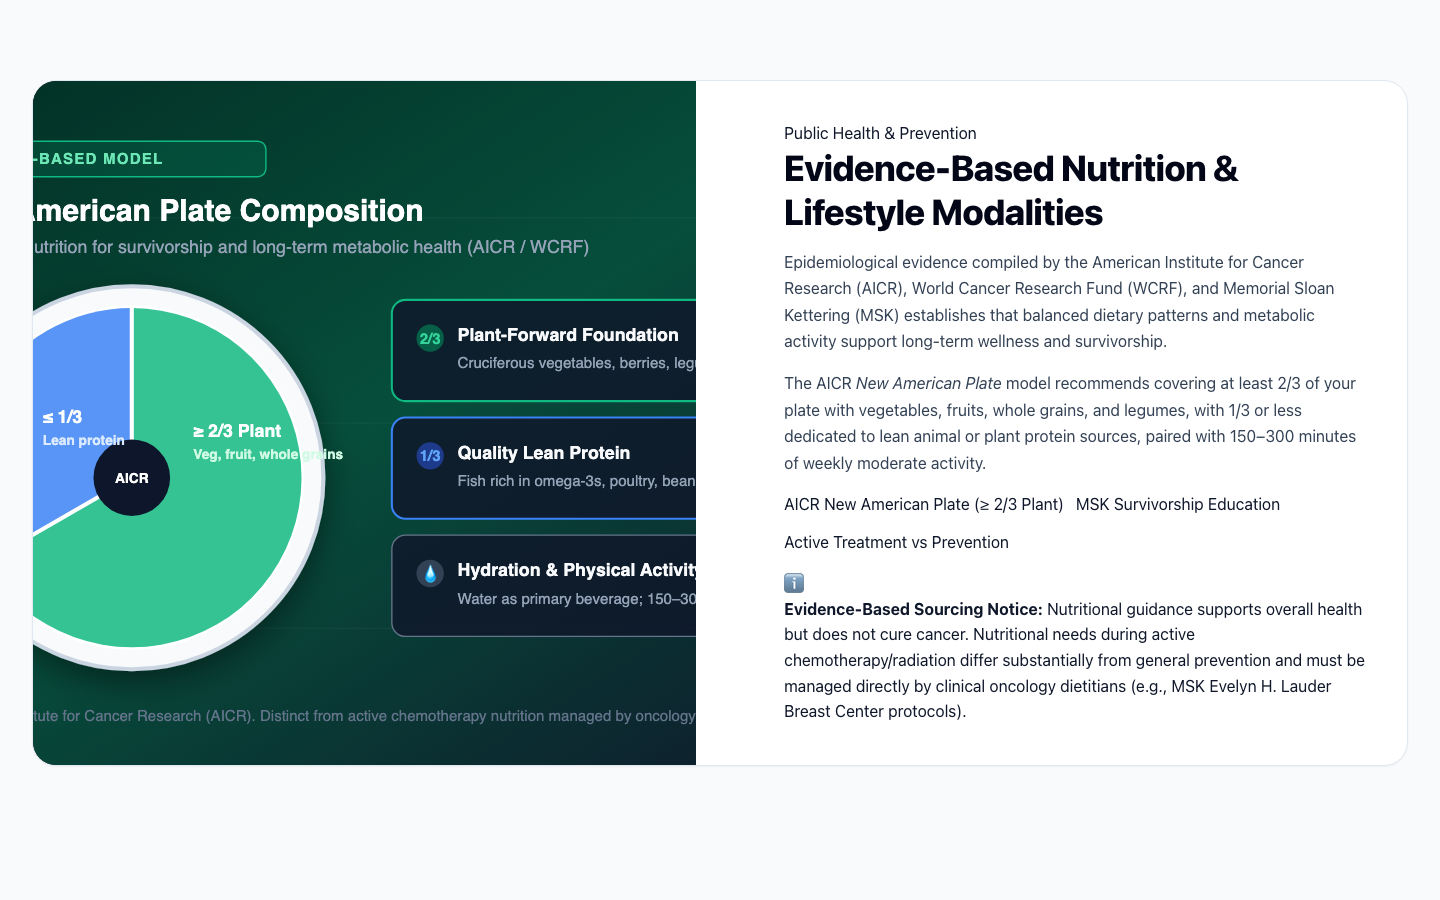
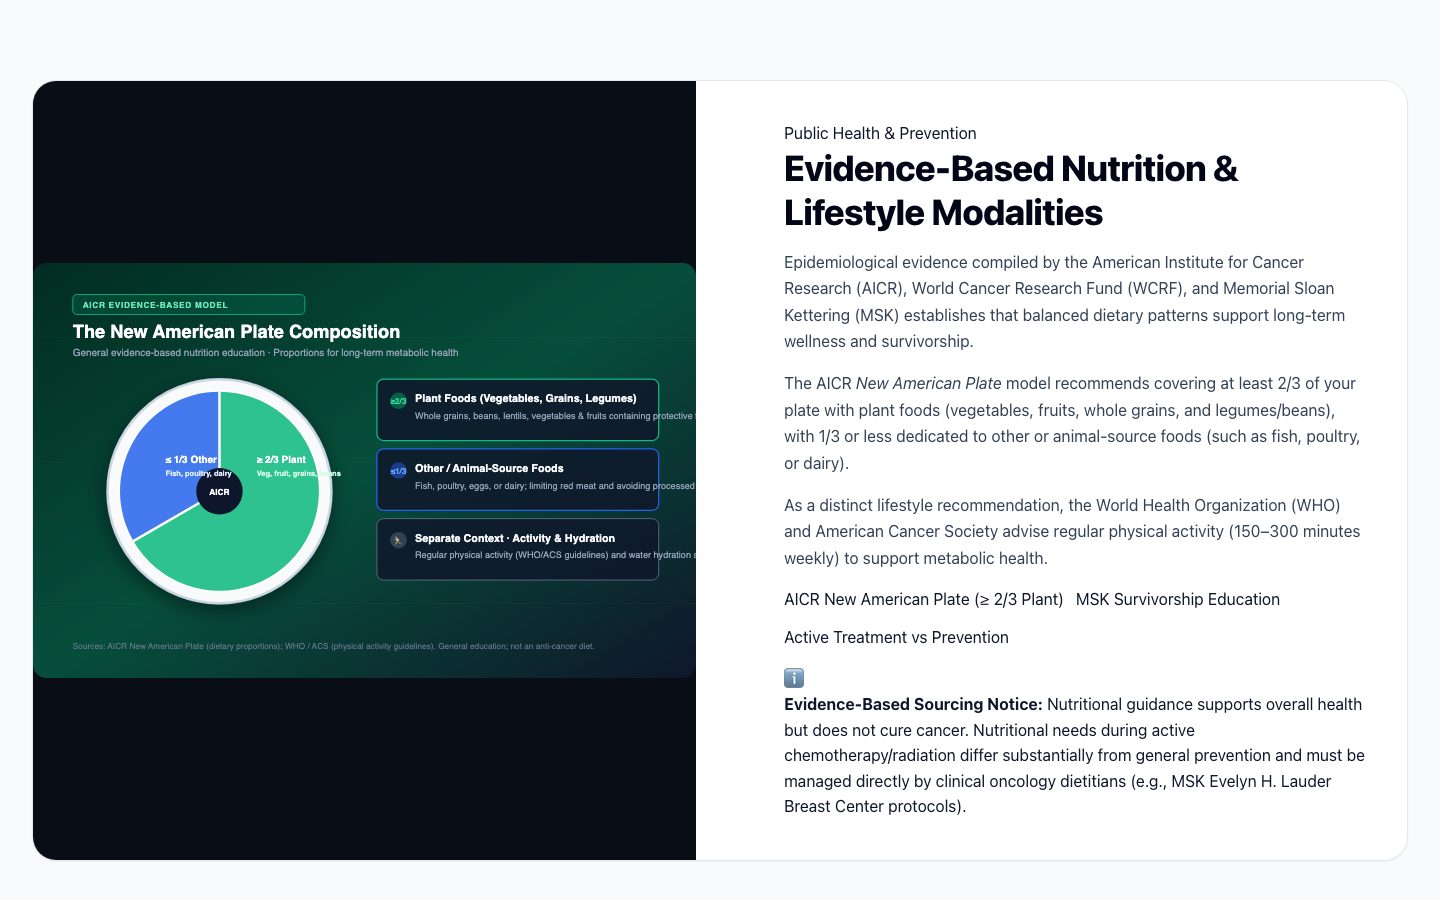
fix: correct sourced nutrition visual semantics

diff --git a/frontend/content/source-registry.js b/frontend/content/source-registry.js
@@ -17,12 +17,14 @@ export const EDUCATIONAL_RESOURCES = [
     videoId: "50CdcLJsIEI",
     embedUrl: "https://www.youtube-nocookie.com/embed/50CdcLJsIEI",
     duration: "05:40",
+    publishedOrUpdatedDate: "2015-10-20",
     reviewedDate: "2026-03-01",
     licenseOrEmbedStatus: "Official YouTube Embed Permitted",
     summary: "Clinical overview explaining evidence-based screening recommendations, average-risk timelines, mammography early detection benefits, and shared decision-making.",
     relatedArticle: "Screening Protocols & Dense Tissue Considerations",
     imageAsset: "assets/img/video_poster_screening.svg",
-    altText: "Video poster for American Cancer Society Screening Guideline Overview"
+    altText: "Video poster for American Cancer Society Screening Guideline Overview",
+    geographicApplicability: "United States / International Reference"
   },
   {
     id: "acs-science-behind-screening",
@@ -34,12 +36,14 @@ export const EDUCATIONAL_RESOURCES = [
     videoId: "oZYRmApgoUI",
     embedUrl: "https://www.youtube-nocookie.com/embed/oZYRmApgoUI",
     duration: "02:21",
+    publishedOrUpdatedDate: "2015-10-20",
     reviewedDate: "2026-03-01",
     licenseOrEmbedStatus: "Official YouTube Embed Permitted",
     summary: "Discussion of scientific evidence, mortality reduction modeling, and risk-benefit analyses guiding regular screening intervals.",
     relatedArticle: "Screening Protocols & Dense Tissue Considerations",
     imageAsset: "assets/img/mammography_tp_original.png",
-    altText: "Mammography radiographic scan illustrating screening early detection"
+    altText: "Mammography radiographic scan illustrating screening early detection",
+    geographicApplicability: "United States / International Reference"
   },
   {
     id: "msk-nutrition-basics-survivors",
@@ -51,12 +55,14 @@ export const EDUCATIONAL_RESOURCES = [
     videoId: null,
     embedUrl: null,
     duration: "16:00",
+    publishedOrUpdatedDate: "2023-05-12",
     reviewedDate: "2026-02-15",
     licenseOrEmbedStatus: "External Institutional Resource Card",
     summary: "Comprehensive nutritional guidance presented by clinical nutrition specialists at the Evelyn H. Lauder Breast Center focusing on whole-food dietary patterns, metabolic wellness, and evidence-based post-treatment health.",
     relatedArticle: "Evidence-Based Lifestyle & Metabolic Factors",
     imageAsset: "assets/img/nutrition_lifestyle.svg",
-    altText: "Infographic illustrating balanced plant-forward plate and active lifestyle"
+    altText: "Infographic illustrating balanced plant-forward plate and active lifestyle",
+    geographicApplicability: "Clinical survivorship guidance"
   },
   {
     id: "msk-nutrition-qa-survivors",
@@ -68,12 +74,14 @@ export const EDUCATIONAL_RESOURCES = [
     videoId: null,
     embedUrl: null,
     duration: "05:00",
+    publishedOrUpdatedDate: "2023-05-12",
     reviewedDate: "2026-02-15",
     licenseOrEmbedStatus: "External Institutional Resource Card",
     summary: "Targeted clinical answers addressing dietary supplements, soy intake, organic produce questions, and protein adequacy during and after cancer therapy.",
     relatedArticle: "Evidence-Based Lifestyle & Metabolic Factors",
     imageAsset: "assets/img/nutrition_lifestyle.svg",
-    altText: "Nutrition and clinical inquiry illustration"
+    altText: "Nutrition and clinical inquiry illustration",
+    geographicApplicability: "Clinical survivorship guidance"
   },
   {
     id: "aicr-new-american-plate",
@@ -85,12 +93,14 @@ export const EDUCATIONAL_RESOURCES = [
     videoId: null,
     embedUrl: null,
     duration: null,
+    publishedOrUpdatedDate: "2021-03-15",
     reviewedDate: "2026-01-20",
     licenseOrEmbedStatus: "Public Health Educational Guidance",
-    summary: "Proportional plate model recommending 2/3 or more of meal composition from plant sources (vegetables, fruits, whole grains, beans) and 1/3 or less from animal protein sources.",
+    summary: "Proportional meal model recommending covering 2/3 or more of the plate with plant foods (vegetables, fruits, whole grains, and legumes/beans) and 1/3 or less with other or animal-source foods (fish, poultry, dairy).",
     relatedArticle: "Evidence-Based Lifestyle & Metabolic Factors",
     imageAsset: "assets/img/nutrition_lifestyle.svg",
-    altText: "New American Plate compositional proportion schematic"
+    altText: "New American Plate compositional proportion schematic",
+    geographicApplicability: "Global public health / dietary pattern guidance"
   },
   {
     id: "nci-breast-anatomy-biology",
@@ -102,12 +112,14 @@ export const EDUCATIONAL_RESOURCES = [
     videoId: null,
     embedUrl: null,
     duration: null,
+    publishedOrUpdatedDate: "2022-06-01",
     reviewedDate: "2026-01-15",
     licenseOrEmbedStatus: "Public Domain / US Government Work",
     summary: "Structural reference detailing terminal duct lobular units (TDLUs), milk ducts, stromal adipose, and regional axillary lymphatic drainage.",
     relatedArticle: "Understanding Breast Tissue & Cellular Architecture",
     imageAsset: "assets/img/anatomy_diagram.svg",
-    altText: "Anatomical schematic diagram of female breast lobules, ducts, and lymph nodes"
+    altText: "Anatomical schematic diagram of female breast lobules, ducts, and lymph nodes",
+    geographicApplicability: "International anatomical standard"
   }
 ];
 
@@ -118,6 +130,7 @@ export const FACTUAL_CLAIMS = [
     statement: "Regular screening mammography is associated with substantial reduction in breast cancer mortality through detection of non-palpable asymptomatic lesions.",
     sourceOrganization: "American Cancer Society / National Cancer Institute",
     sourceTitle: "Breast Cancer Screening Guidelines and Systematic Review",
+    sourceUrl: "https://jamanetwork.com/journals/jama/fullarticle/2463261",
     sourceReference: "ACS Breast Cancer Screening Guideline (Oeffinger et al., JAMA 2015;314(15):1599-1614)",
     publishedOrUpdatedDate: "2015-10-20",
     reviewedDate: "2026-03-01",
@@ -129,6 +142,7 @@ export const FACTUAL_CLAIMS = [
     statement: "High breast tissue density (BI-RADS category C and D) reduces the sensitivity of 2D projection mammography due to parenchymal tissue masking effects.",
     sourceOrganization: "American College of Radiology (ACR)",
     sourceTitle: "ACR BI-RADS Atlas: Breast Imaging Reporting and Data System",
+    sourceUrl: "https://www.acr.org/Clinical-Resources/Reporting-and-Data-Systems/Bi-Rads",
     sourceReference: "D'Orsi CJ, et al. ACR BI-RADS Atlas 5th Edition (2013/rev 2023)",
     publishedOrUpdatedDate: "2023-08-10",
     reviewedDate: "2026-03-01",
@@ -136,23 +150,25 @@ export const FACTUAL_CLAIMS = [
   },
   {
     claimId: "CLAIM-LIFESTYLE-003",
-    topic: "Physical Activity & Cancer Risk",
-    statement: "Engaging in 150 to 300 minutes of moderate-intensity or 75 to 150 minutes of vigorous-intensity physical activity weekly is associated with lower post-menopausal breast cancer risk.",
+    topic: "Physical Activity Guidelines & Long-Term Health",
+    statement: "Engaging in regular physical activity (150 to 300 minutes of moderate-intensity or 75 to 150 minutes of vigorous-intensity aerobic physical activity weekly) is associated with metabolic wellness and lower post-menopausal breast cancer risk.",
     sourceOrganization: "World Health Organization (WHO) / American Cancer Society",
     sourceTitle: "WHO Guidelines on Physical Activity and Sedentary Behaviour",
-    sourceReference: "WHO Guidelines (2020) & Rock CL et al. CA Cancer J Clin 2020;70(4):245-271",
+    sourceUrl: "https://www.who.int/publications/i/item/9789240015128",
+    sourceReference: "WHO Guidelines on Physical Activity (2020) & Rock CL et al. American Cancer Society Guideline on Diet and Physical Activity for Cancer Prevention, CA Cancer J Clin 2020;70(4):245-271",
     publishedOrUpdatedDate: "2020-11-25",
     reviewedDate: "2026-02-15",
     geographicApplicability: "Global public health recommendation"
   },
   {
     claimId: "CLAIM-NUTRITION-004",
-    topic: "Plant-Forward Dietary Pattern",
-    statement: "A dietary pattern emphasizing fiber-rich plant foods (vegetables, whole grains, legumes, and fruits) supports general metabolic wellness and survivorship health without curative claims.",
-    sourceOrganization: "American Institute for Cancer Research / WCRF",
-    sourceTitle: "Diet, Nutrition, Physical Activity and Breast Cancer",
-    sourceReference: "Continuous Update Project Expert Report (WCRF/AICR 2018)",
-    publishedOrUpdatedDate: "2018-05-24",
+    topic: "Plant-Forward Dietary Pattern Proportions",
+    statement: "A dietary pattern emphasizing plant foods (vegetables, whole grains, legumes/beans, and fruits) for at least two-thirds of meal volume supports general metabolic wellness and survivorship health without curative or anti-cancer diet claims.",
+    sourceOrganization: "American Institute for Cancer Research / World Cancer Research Fund",
+    sourceTitle: "Diet, Nutrition, Physical Activity and Breast Cancer: A Global Perspective",
+    sourceUrl: "https://www.aicr.org/research/the-continuous-update-project/",
+    sourceReference: "Continuous Update Project Expert Report (WCRF/AICR 2018; updated recommendations 2021)",
+    publishedOrUpdatedDate: "2021-03-15",
     reviewedDate: "2026-02-15",
     geographicApplicability: "Global epidemiological consensus"
   }

diff --git a/frontend/index.html b/frontend/index.html
@@ -568,10 +568,13 @@
               Evidence-Based Nutrition &amp; Lifestyle Modalities
             </h2>
             <p style="color: var(--slate-700); line-height: 1.65; margin-bottom: 1rem;">
-              Epidemiological evidence compiled by the American Institute for Cancer Research (AICR), World Cancer Research Fund (WCRF), and Memorial Sloan Kettering (MSK) establishes that balanced dietary patterns and metabolic activity support long-term wellness and survivorship.
+              Epidemiological evidence compiled by the American Institute for Cancer Research (AICR), World Cancer Research Fund (WCRF), and Memorial Sloan Kettering (MSK) establishes that balanced dietary patterns support long-term wellness and survivorship.
             </p>
             <p style="color: var(--slate-700); line-height: 1.65; margin-bottom: 1rem;">
-              The AICR <em>New American Plate</em> model recommends covering at least 2/3 of your plate with vegetables, fruits, whole grains, and legumes, with 1/3 or less dedicated to lean animal or plant protein sources, paired with 150–300 minutes of weekly moderate activity.
+              The AICR <em>New American Plate</em> model recommends covering at least 2/3 of your plate with plant foods (vegetables, fruits, whole grains, and legumes/beans), with 1/3 or less dedicated to other or animal-source foods (such as fish, poultry, or dairy).
+            </p>
+            <p style="color: var(--slate-700); line-height: 1.65; margin-bottom: 1rem;">
+              As a distinct lifestyle recommendation, the World Health Organization (WHO) and American Cancer Society advise regular physical activity (150–300 minutes weekly) to support metabolic health.
             </p>
             <div style="display: flex; gap: 0.75rem; flex-wrap: wrap; margin-bottom: 1rem;">
               <span class="studio-badge badge-teal">AICR New American Plate (≥ 2/3 Plant)</span>
